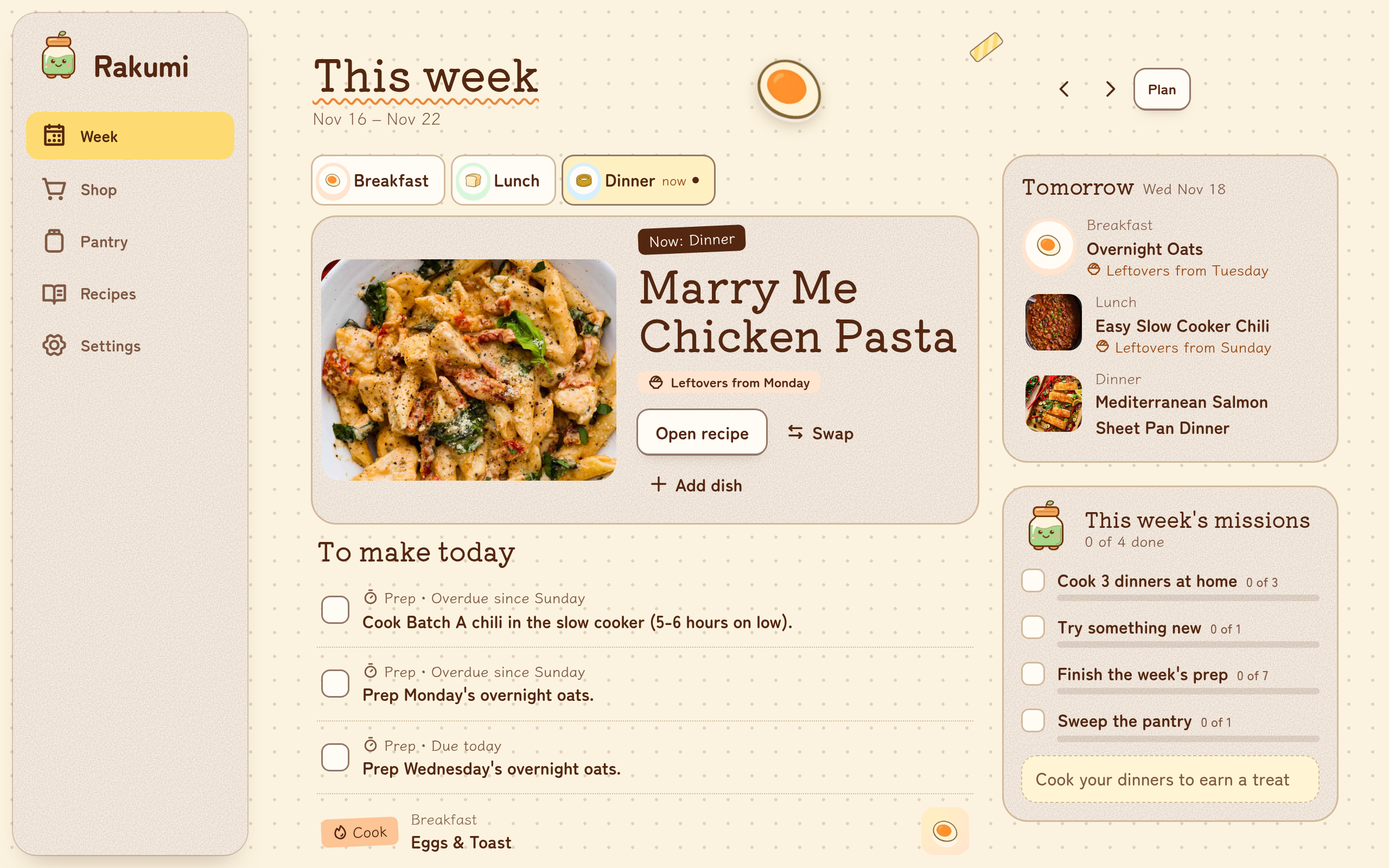
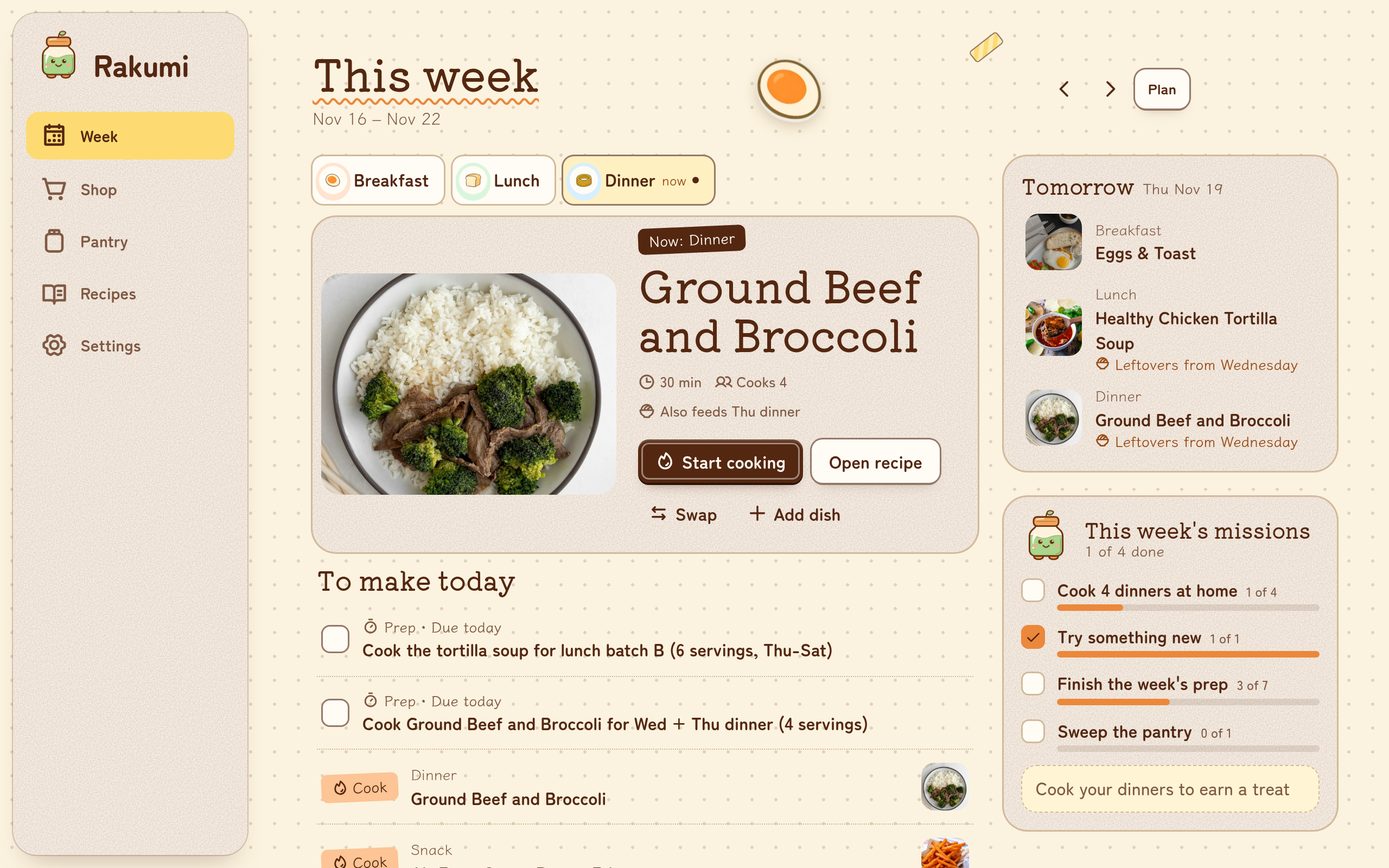
docs(screenshots): reshoot landing and docs images from the demo household
- Light theme, mid-week (Wed evening) so the week view shows tonight, tomorrow, and mission progress
- Update hero and pantry alt text to match

Changed region(s): [[0.2188, 0.25, 0.9688, 1.0]]

diff --git a/landing/src/data/steps.ts b/landing/src/data/steps.ts
@@ -52,7 +52,7 @@ export const steps: Step[] = [
     title: "Your pantry keeps up",
     text: "Finish a recipe and your stock updates. Expiry dates keep you using things up in time.",
     image: pantry,
-    imageAlt: "Pantry tiles with amounts and expiry dates",
+    imageAlt: "Pantry tiles with amounts and plus and minus buttons",
     crop: "40% 20%",
     icon: milk,
     tab: "pantry",

diff --git a/BACKLOG.md b/BACKLOG.md
@@ -93,7 +93,7 @@ Priority: **P0** needed for launch, **P1** next, **P2** later. Launch work lives
    - [ ] Choose the analytics tool (app and landing site), then name it and any cookie it sets in the Privacy Policy
 6. [x] Logo: Raku the jar (`docs/images/logo.svg`), used for the README, docs site, and both favicons
 7. [x] Demo data: `seed/example.json` from a scrubbed copy of the prod household; free-license photos (`seed/PHOTO-CREDITS.md`). Plan week is fixed at 2026-11-16 to 11-22
-8. [ ] Shoot the hero shots: Week, Pantry, Recipes, Cook mode, Shop
+8. [x] Hero shots from the demo data (light theme, mid-week): landing `week`, `shop`, `cook`, `pantry`; docs `week`, `shop`, `pantry`, `cook`, `recipes`
 9. [ ] Decide: ask for a card at trial start, or not (changes the trial, FAQ, and pricing copy)
 10. [ ] Review the FAQ by hand
 11. [ ] Fix the FAQ layout: two-column grid
